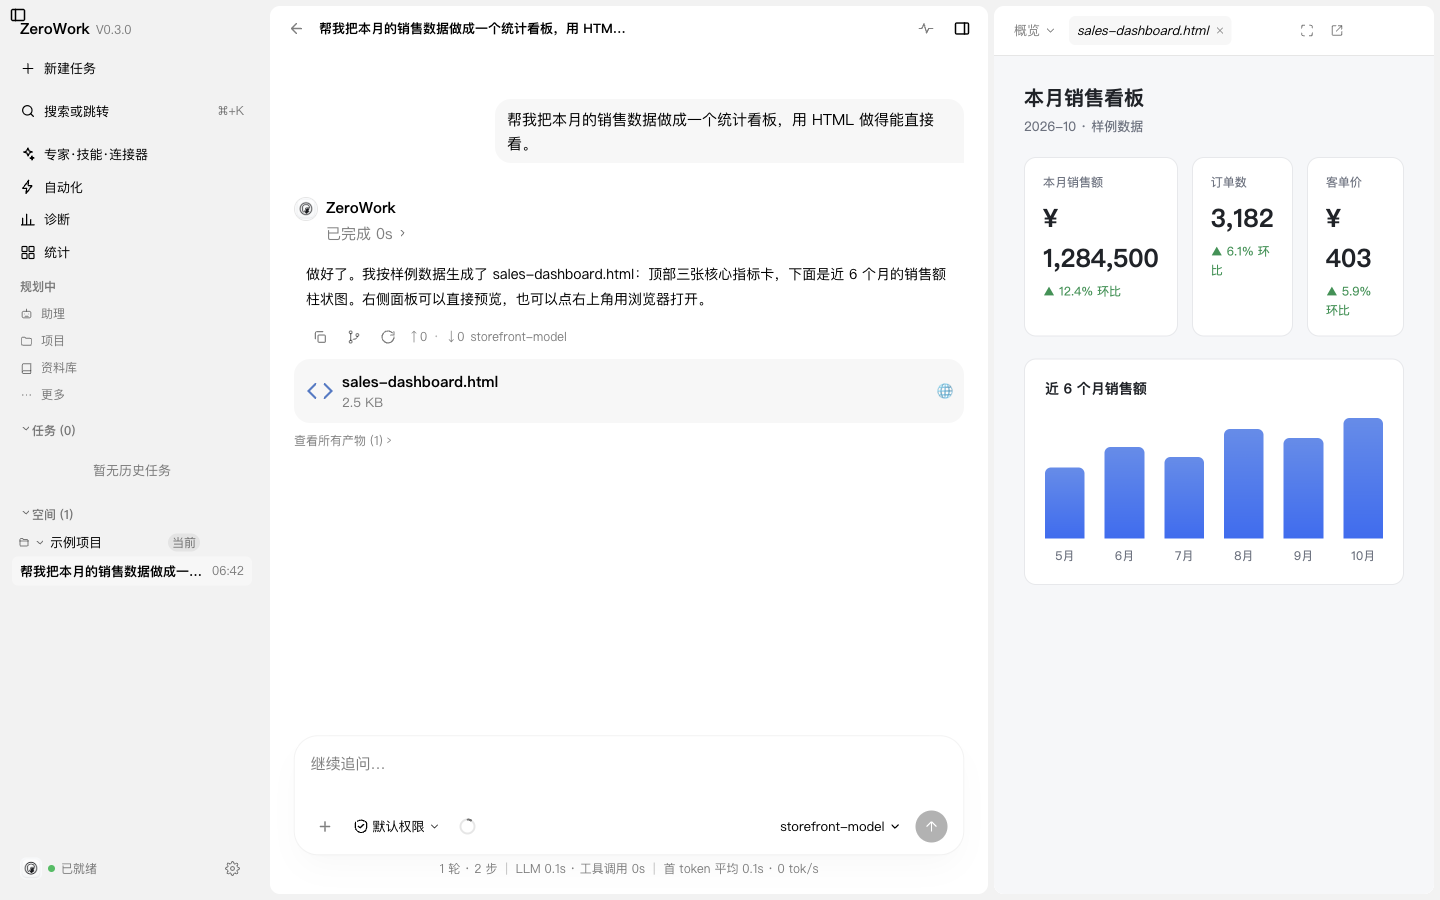
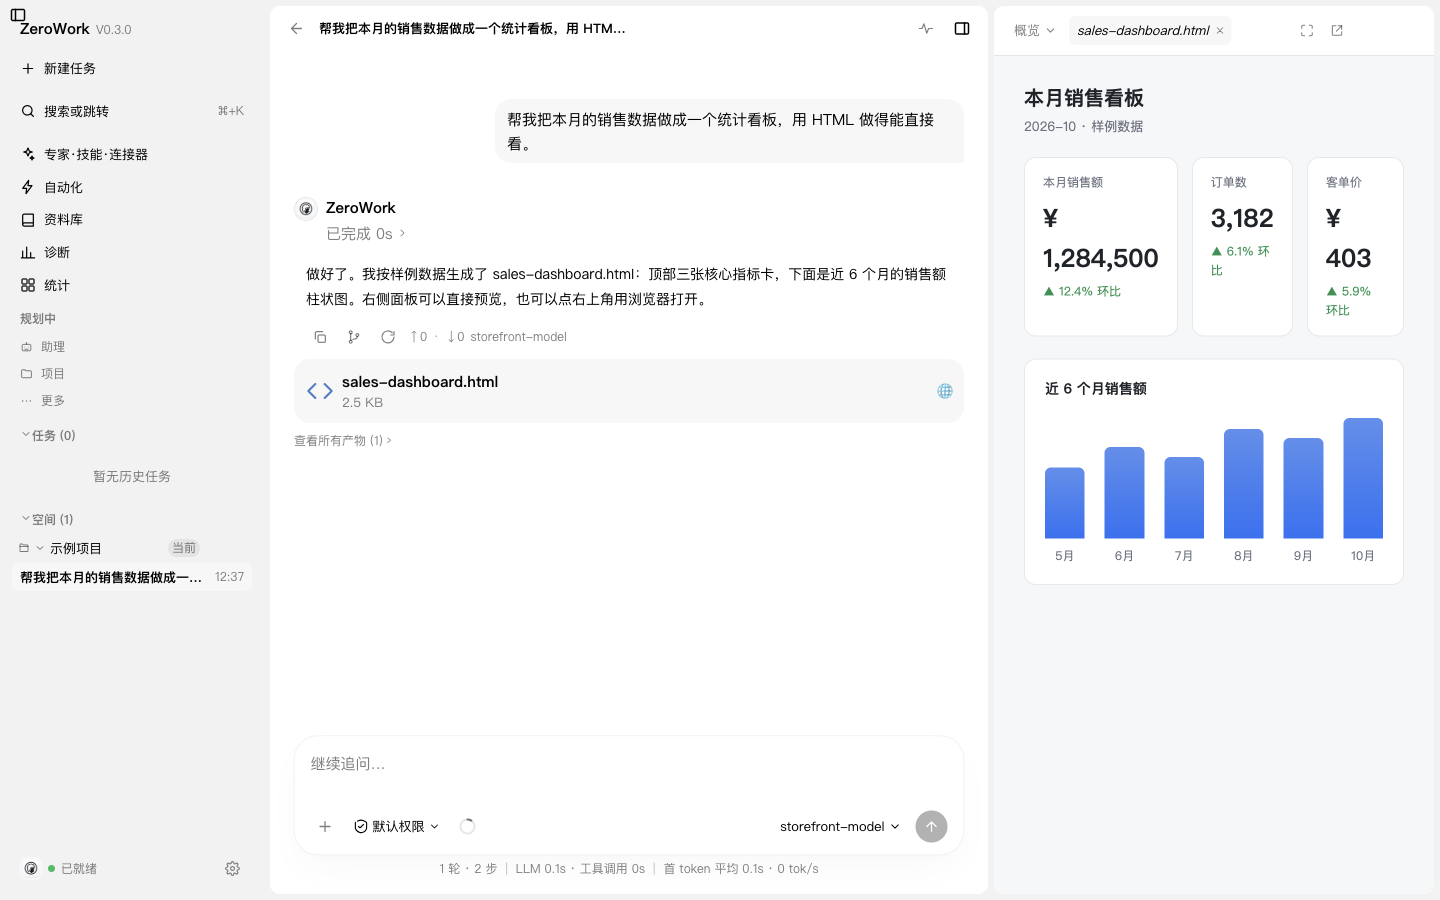
docs: README 门面截图与文档里的 daemon 规模重新对齐
四张门面图还是 #112 拍的，此后侧栏信息架构动过两轮（「资料库」从「规划中」
挪进「就绪」组、组标题从「即将开放」改叫「规划中」），README 首页展示的已经
是一个不存在的界面；文档里的 daemon 规模也停在 40 个模块 / 19,467 行
（实际 43 个 / 约 24,400 行）。门面对不上，后面写得再清楚也会先掉一档信任。

四张图用仓库自带的 tools/shoot-storefront.mjs 重拍（真实启动 Electron、
脚本自断言产物契约），模块数与行数在 AGENTS.md、CONTRIBUTING.md、
docs/ARCHITECTURE.md、.trellis 两处与检查工具自身的注释里一并改齐，
并注明实时值以 npm run check:daemon-graph 为准 —— 把还会漂的数字写成确定值
必然过期，标明取数方式才是能少踩一次的办法。顺手把 app.js 的「6.8 万行」
改成「近 7 万行」（实测 69,479），免得下一轮又来一次。

本提交不含任何运行时行为改动（唯一碰到的代码是检查工具的一行注释）。

Closes #122

diff --git a/.trellis/tasks/10-04-docs-refresh/prd.md b/.trellis/tasks/10-04-docs-refresh/prd.md
@@ -1,0 +1,53 @@
+# README 门面截图与文档里的 daemon 规模重新对齐
+
+## Goal
+
+README 门面四张截图是 #112 时拍的，侧栏信息架构此后动过两轮（资料库从「规划中」进「就绪」、组标题改「规划中」），首页展示的是已经不存在的界面；文档里 daemon 规模停在 40 个模块 / 19,467 行（实际 43 / 约 24,400）。用 tools/shoot-storefront.mjs 重拍四图，并把模块数与行数在 AGENTS.md、CONTRIBUTING.md、docs/ARCHITECTURE.md、.trellis/ 两处与检查工具注释里改齐、注明实时值以 npm run check:daemon-graph 为准。
+
+## 背景：已核实的事实
+
+| 项 | 结论 | 怎么核实的 |
+| --- | --- | --- |
+| 门面截图拍于何时 | #112「README 从自述改成看得见的样子」那一轮 | `CHANGELOG.md` 的该条 + `docs/images/*.png` 的提交历史 |
+| 之后信息架构动过什么 | 「资料库」从「规划中」组挪进「就绪」组；组标题「即将开放」改「规划中」；侧栏新增「统计」 | 读当前 `src/renderer/src/app.js` 与截图对比 |
+| daemon 实际规模 | **43 个模块 / 24,370 行** | `npm run check:daemon-graph` 输出 + `find src/main/daemon -name '*.js' \| wc -l` |
+| 文档写的是多少 | 40 个模块 / 19,467 行 | 改前的 `AGENTS.md`、`docs/ARCHITECTURE.md`、`CONTRIBUTING.md`、`.trellis/workflow.md`、`.trellis/spec/daemon/index.md`、`tools/check-daemon-graph.mjs` 注释 |
+| 截图怎么重拍 | 仓库自带 `tools/shoot-storefront.mjs`：本地 mock 模型跑完整条链路后按 CSS 像素拍 1440×900 | 读脚本 + 实跑一次（脚本自断言 6/6 通过） |
+
+## Requirements
+
+- **R1 四张门面图重拍**：`docs/images/home-light.png`、`home-dark.png`、`conversation.png`、
+  `command-palette.png` 全部用 `node tools/shoot-storefront.mjs` 重新生成，1440×900，
+  内容与当前界面一致（侧栏「资料库」在就绪组、「规划中」只剩助理 / 项目 / 更多）。
+- **R2 daemon 规模数字改齐**：把「40 个模块」改成实际值，「19,467 行」改成量级值，
+  在 `AGENTS.md`、`CONTRIBUTING.md`、`docs/ARCHITECTURE.md`、`.trellis/workflow.md`、
+  `.trellis/spec/daemon/index.md` 与 `tools/check-daemon-graph.mjs` 的注释里同步；
+  并在文档里**注明实时值以 `npm run check:daemon-graph` 为准**（数字会漂，取数方式不会）。
+- **R3 顺手改掉同族的写死数字**：`app.js` 的「6.8 万行」改成「近 7 万行」（实测 69,479 行），
+  避免下一轮又来一次。
+- **R4 CHANGELOG**：`[Unreleased] → 变更` 记一条，写清「此前 README 展示的是已经不存在的界面」。
+
+## 约束
+
+- **不为了改文档动任何运行时代码**：只有 `tools/check-daemon-graph.mjs` 的**注释**一行，
+  脚本行为不变（改完仍要跑一次确认输出一样）。
+- 不改 `resources/**`；不新增依赖。
+- 历史 `CHANGELOG.md` 条目里的旧数字**不改**（那是当时的记录）。
+
+## Acceptance Criteria
+
+- [ ] `node tools/shoot-storefront.mjs` 实跑，脚本自断言全过（四张都在 / 尺寸对 / 非纯色 /
+      彼此不同 / 总重不超标）
+- [ ] 四张新图**人工看过**：侧栏与当前界面一致（「资料库」在就绪组）
+- [ ] `npm run check:daemon-graph` 输出与文档里的数字一致（43 个模块）
+- [ ] `npx vitest run` 全绿、既有用例一条不少
+- [ ] `npm run lint:all` 中与本改动相关的检查项全绿
+      （已知无关失败：本机陈旧 `release/` 产物、docker 未起导致 zizmor 跳过）
+- [ ] 中文内容 U+FFFD 扫描通过
+- [ ] `CHANGELOG.md` 的 `[Unreleased] → 变更` 有条目
+
+## Notes
+
+- 轻量任务，PRD-only，不另写 `design.md` / `implement.md`。
+- 这轮没有代码行为改动，因此不新增单元 / GUI 用例；截图工具自身带的产物断言就是
+  这一轮的「GUI 测试」（它真实启动 Electron 并按像素出图）。

diff --git a/CONTRIBUTING.md b/CONTRIBUTING.md
@@ -54,8 +54,8 @@
 | **修 `good first issue`** | 首次贡献者 | 这类 Issue 的正文里写明了「从哪个文件入手」 |
 | **加功能** | —— | 先在 Issue 里说一声，避免两个人做同一件事 |
 
-**不建议一上来就大改。** 这个项目有两块体量很大的代码（`src/main/daemon/` 约 40 个模块、
-`src/renderer/src/` 下单个 chunk 6.8 万行），它们的现状是**有意的**，
+**不建议一上来就大改。** 这个项目有两块体量很大的代码（`src/main/daemon/` 40 余个模块、
+`src/renderer/src/` 下单个 chunk 近 7 万行），它们的现状是**有意的**，
 理由写在 `docs/ARCHITECTURE.md` 的「设计决策与已否决方案」一节。
 动手前先读那一节，能省下大量来回报。
 
@@ -85,10 +85,11 @@
 
 ### ⚠ 谨慎改的
 
-- `src/main/daemon/` —— 约 40 个模块、2 万多行，改动前先确认影响面。
+- `src/main/daemon/` —— 43 个模块、约 2.4 万行（实时值看 `npm run check:daemon-graph`），
+  改动前先确认影响面。
   模块之间的相对 import 由 `npm run check:daemon-graph` 守着，
   但**语义耦合**（谁在什么时候初始化)没有自动检查
-- `src/renderer/src/` —— 大块 chunk（`app.js` 单个 6.8 万行），
+- `src/renderer/src/` —— 大块 chunk（`app.js` 单个近 7 万行），
   且与构建产物的命名约定耦合。**改产物命名前必读
   `electron.vite.config.mjs` 的 renderer 段注释**：源码里的 `m.f||(m.f=[...])`
   依赖表是**字面量字符串**，构建工具不会改写它们 —— 产物名一旦带上内容哈希，

diff --git a/CHANGELOG.md b/CHANGELOG.md
@@ -143,6 +143,17 @@
 
 ### 变更
 
+- **README 门面截图与文档里的 daemon 规模重新对齐** —— 仓库门面的四张截图是 #112 拍的，
+  此后侧栏信息架构动过两轮（「资料库」从「规划中」组挪进「就绪」组、组标题从
+  「即将开放」改叫「规划中」），README 首页当时展示的是一个**已经不存在的界面**；
+  文档里的 daemon 规模也停在 40 个模块 / 19,467 行（实际 43 个 / 约 24,400 行）。
+  四张图用仓库自带的 `tools/shoot-storefront.mjs` 重新拍（真实启动 Electron、
+  脚本自断言产物契约）；模块数与行数在 `AGENTS.md`、`CONTRIBUTING.md`、
+  `docs/ARCHITECTURE.md`、`.trellis/` 两处与检查工具自身的注释里一并改掉，
+  并注明**实时值以 `npm run check:daemon-graph` 为准**；`app.js` 的行数写法
+  从写死的「6.8 万行」改成「近 7 万行」。把还会漂的数字写成确定值必然过期，
+  标明取数方式才是唯一能少踩一次的办法。
+
 - **会话行 ⋯ 菜单里的「导出」改名为「导出为 HTML」**，并与新增的「导出为 Markdown」
   并列：此前要**点完**才知道出来的是 HTML，现在选择发生在点之前。两项的 tooltip 也把
   「非当前会话会先被恢复再导出」说清楚了（这是既有行为，此前只写了一半）。

diff --git a/.trellis/spec/daemon/index.md b/.trellis/spec/daemon/index.md
@@ -1,6 +1,8 @@
 # daemon（Agent 内核）编码规范
 
-> `src/main/daemon/` —— 40 个模块、约 19,500 行。**改这里之前先读完本页。**
+> `src/main/daemon/` —— 43 个模块、约 24,400 行。**改这里之前先读完本页。**
+>
+> 这两个数字会随迭代漂移；要拿实时值就跑 `npm run check:daemon-graph`（它会打印模块数）。
 
 ---
 
@@ -28,7 +30,7 @@
 
 ## 一、初始化顺序：本层最容易踩的坑
 
-40 个模块的**顶层求值顺序由 import 图决定**。在顶层引入新的跨模块引用，
+43 个模块的**顶层求值顺序由 import 图决定**。在顶层引入新的跨模块引用，
 可能触发 TDZ 错误：
 
 ```

diff --git a/README.md b/README.md
@@ -154,7 +154,7 @@ npm run dev
 
 1. **源码以 JavaScript + JSDoc 提供**，类型检查走 `tsc`（`checkJs` 当前关闭，
    原因与渐进补类型的路径写在架构文档里）
-2. **渲染层是 chunk 粒度，不是组件粒度** —— `src/renderer/src/app.js` 单个文件 6.8 万行。
+2. **渲染层是 chunk 粒度，不是组件粒度** —— `src/renderer/src/app.js` 单个文件近 7 万行。
    这是**有意的**：自动拆分产不出可读可靠的划分，理由与四条人工切分线索同在架构文档里
 
 ```bash

diff --git a/AGENTS.md b/AGENTS.md
@@ -258,7 +258,7 @@ Trellis 是**建议采用**的工作方法。
 
 ```
 .trellis/spec/main/      ← src/main/、src/main/sandbox/、src/preload/
-.trellis/spec/daemon/    ← src/main/daemon/（40 个模块）
+.trellis/spec/daemon/    ← src/main/daemon/（43 个模块）
 .trellis/spec/renderer/  ← src/renderer/
 .trellis/spec/shared/    ← src/shared/
 .trellis/spec/resources/ ← resources/（随时需记住：不参与本项目工具链）

diff --git a/.trellis/workflow.md b/.trellis/workflow.md
@@ -27,7 +27,7 @@
 | 目录 | 对应源码 |
 | --- | --- |
 | `spec/main/` | `src/main/index.js`、`src/main/sandbox/`、`src/preload/` |
-| `spec/daemon/` | `src/main/daemon/`（40 个模块） |
+| `spec/daemon/` | `src/main/daemon/`（43 个模块） |
 | `spec/renderer/` | `src/renderer/` |
 | `spec/shared/` | `src/shared/` |
 | `spec/resources/` | `resources/`（随包第三方内容，**不参与本项目工具链**） |
